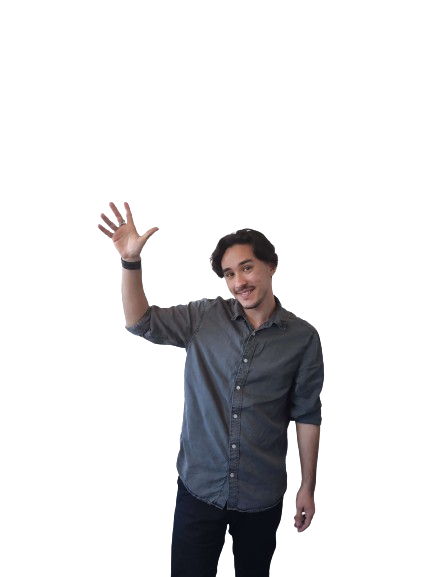
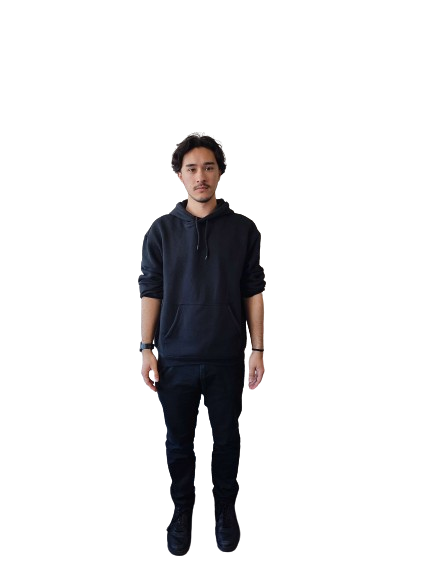
Ajout personnes

Changed region(s): [[0.2102, 0.2184, 0.7506, 1.0]]

diff --git a/SAE3B01/Assets/script/Dialogue/ClassroomSpriteSetter.cs b/SAE3B01/Assets/script/Dialogue/ClassroomSpriteSetter.cs
@@ -98,14 +98,14 @@ public class ClassroomSpriteSetter : MonoBehaviour
                 x = 1000f;
                 y = 1000f;
                 break;
-            case "MAK":
+            case "Mak":
                 x = Screen.width / 3;
                 y = -Screen.height / 5;
                 width = 320f;
                 height = 400f;
                 break;
-            case "BDE":
-                x = Screen.width / 100;
+            case "Bde":
+                x = Screen.width / 10;
                 y = Screen.height / 5;
                 width = 320f;
                 height = 400f;
@@ -135,6 +135,10 @@ public class ClassroomSpriteSetter : MonoBehaviour
                 height = 400f;
                 break;
             case "208":
+                x = Screen.width / 3;
+                y = -Screen.height / 5;
+                width = 320f;
+                height = 400f;
                 break;
         }
 
@@ -152,11 +156,11 @@ public class ClassroomSpriteSetter : MonoBehaviour
         string interactiveObjectSprite = null;
         switch (strClassroomName)
         {
-            case "BDE":
+            case "Bde":
                 interactiveObjectSprite = "Myke1";
                 break;
-            case "MAK":
-                interactiveObjectSprite = "Papier1";
+            case "Mak":
+                interactiveObjectSprite = "MAKSSOUD1";
                 break;
             case "002":
                 interactiveObjectSprite = "NEUVOT1";
@@ -168,8 +172,6 @@ public class ClassroomSpriteSetter : MonoBehaviour
                 interactiveObjectSprite = "Papier1";
                 break;
             case "109":
-                break;
-            case "102":
                 interactiveObjectSprite = "Papier2";
                 break;
             case "110":
@@ -266,13 +268,13 @@ public class ClassroomSpriteSetter : MonoBehaviour
     {
         switch(strClassroomName)
         {
-            case "MAK":
+            case "Mak":
                 xSize = 2;
                 ySize = 2;
                 break;
-            case "BDE":
-                xSize = 2;
-                ySize = 2;
+            case "Bde":
+                xSize = 1;
+                ySize = 1;
                 break;
             case "002":
                 xSize = 2;
@@ -291,6 +293,8 @@ public class ClassroomSpriteSetter : MonoBehaviour
                 ySize = 2;
                 break;
             case "208":
+                xSize = 2;
+                ySize = 2;
                 break;
         }
 

diff --git a/SAE3B01/Assets/script/DataBase/TestSQLite.cs b/SAE3B01/Assets/script/DataBase/TestSQLite.cs
@@ -161,7 +161,7 @@ public class TestSQLite : MonoBehaviour
 
         iD = "8";
         name = "Parrain|$|Parrain|.";
-        posID = "1,1,1,1";
+        posID = "2,1,3,1";
         string dialogue8 = "Salut le filleul ! Toi, t’as encore besoin d’un conseil de ton parrain préféré !|Eh ouais, j’voudrais des infos concernant les stages et l’alternance.|Ah oui, la cheffe de dep m’avait dit que tu en aurais besoin ! Tiens, je t’ai préparé ça.| Document stage et alternance obtenu";
         firstTime = "T";
         string[] values8 = { iD, name, posID, dialogue8, firstTime };

diff --git a/SAE3B01/Assets/script/Dialogue/Dialogue.cs b/SAE3B01/Assets/script/Dialogue/Dialogue.cs
@@ -299,10 +299,10 @@ public class Dialogue : MonoBehaviour
     {
         switch(numb)
         {
-            case "BDE":
+            case "Bde":
                 id = 7;
                 break;
-            case "MAK":
+            case "Mak":
                 id = 2;
                 break;
             case "002":
